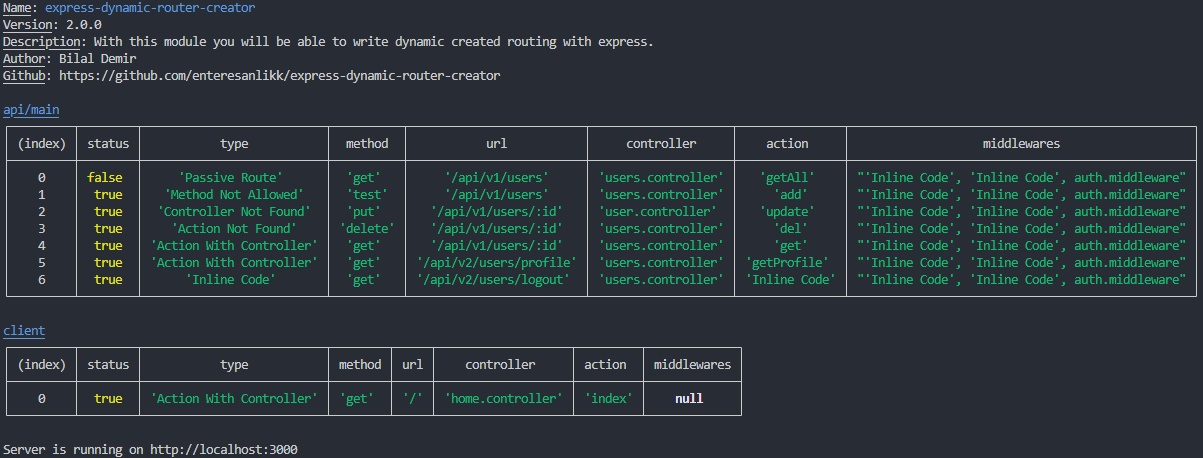
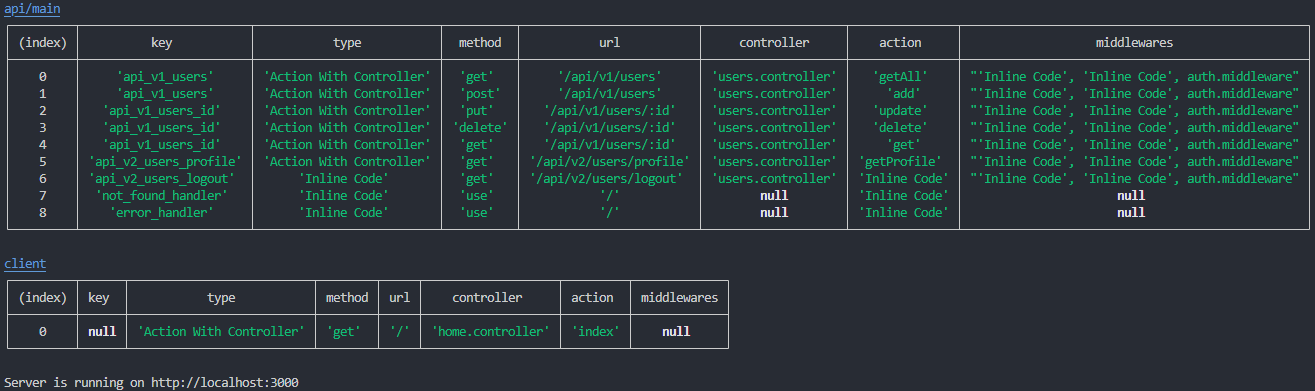
Added route key structure. The use method has been added.

diff --git a/lib/dynamicRouter.js b/lib/dynamicRouter.js
@@ -22,7 +22,6 @@ class DynamicRouter {
 
   run() {
     this.validate();
-    this.writeInfo();
     this.loadRoutes();
 
     return this;
@@ -34,15 +33,6 @@ class DynamicRouter {
     if (!this.routerFiles) throw new Error(texts.routerFiles_is_required);
     if (!this.folders.routers)
       throw new Error(texts.folders_routers_is_required);
-  }
-
-  writeInfo() {
-    this.log(`${colors.underline('Name')}: ${colors.blue(config.name)}`);
-    this.log(`${colors.underline('Version')}: ${config.version}`);
-    this.log(`${colors.underline('Description')}: ${config.description}`);
-    this.log(`${colors.underline('Author')}: ${config.author}`);
-    this.log(`${colors.underline('Github')}: ${config.repository.url}`);
-    this.log('');
   }
 
   loadRoutes() {
@@ -163,7 +153,13 @@ class DynamicRouter {
           route.status = true;
         }
 
-        route.url = `/${route.url || ''}`;
+        route.url = `${route.url || ''}`;
+
+        if (!route.key) {
+          route.key = route.url.replace(/[^a-zA-Z0-9]+/g, '_');
+        }
+
+        route.url = `/${route.url}`;
 
         this.tempRoutes.push(route);
         this.allRoutes.push(route);

diff --git a/examples/multiple-example/routers/api/main.js b/examples/multiple-example/routers/api/main.js
@@ -36,6 +36,25 @@ module.exports = [
         url: 'v2',
         routes: v2Routes,
       },
+      {
+        key: 'not_found_handler',
+        method: 'use',
+        action: (req, res, next) => {
+          next({
+            status: 404,
+            message: 'Not Found',
+          });
+        },
+      },
+      {
+        key: 'error_handler',
+        method: 'use',
+        action: (error, req, res, next) => {
+          res
+            .status(error.status || 500)
+            .send(error.message || 'Internal Server Error');
+        },
+      },
     ],
   },
 ];

diff --git a/lib/routeLog.js b/lib/routeLog.js
@@ -2,7 +2,7 @@ const { texts } = require('../constants');
 
 class RouteLog {
   constructor(route, type) {
-    this.status = route.status;
+    this.key = route.key || null;
     this.type = texts[type] || texts.unknown;
     this.method = route.method;
     this.url = route.url;

diff --git a/constants/allowedMethods.js b/constants/allowedMethods.js
@@ -12,4 +12,5 @@ module.exports = [
   'link',
   'unlink',
   'purge',
+  'use',
 ];

diff --git a/README.md b/README.md
@@ -88,41 +88,53 @@ new DynamicRouter({
     ],
     routes: [
       {
-        url: 'v1',
+        url: 'users',
+        middlewares: ['auth.middleware'],
+        controller: 'users.controller',
         routes: [
           {
-            url: 'users',
-            middlewares: ['auth.middleware'],
-            controller: 'users.controller',
-            status: false,
+            action: 'getAll',
+          },
+          {
+            method: 'post',
+            action: 'add',
+          },
+          {
+            url: ':id',
             routes: [
               {
-                action: 'getAll',
+                method: 'put',
+                action: 'update',
               },
               {
-                method: 'test',
-                action: 'add',
+                method: 'delete',
+                action: 'delete',
               },
               {
-                url: ':id',
-                routes: [
-                  {
-                    controller: 'user.controller',
-                    method: 'put',
-                    action: 'update',
-                  },
-                  {
-                    method: 'delete',
-                    action: 'del',
-                  },
-                  {
-                    action: 'get',
-                  },
-                ],
+                action: 'get',
               },
             ],
           },
         ],
+      },
+      {
+        key: 'not_found_handler',
+        method: 'use',
+        action: (req, res, next) => {
+          next({
+            status: 404,
+            message: 'Not Found',
+          });
+        },
+      },
+      {
+        key: 'error_handler',
+        method: 'use',
+        action: (error, req, res, next) => {
+          res
+            .status(error.status || 500)
+            .send(error.message || 'Internal Server Error');
+        },
       },
     ],
   },
@@ -137,4 +149,5 @@ new DynamicRouter({
 | **action**      | Represents the function in which route operations are performed. Must be string or function. **_Required_**                                                                                                                   |                |
 | **middlewares** | Used to define the middleware of the route. Must be array in string or function. **_It can be optional according to the upper route._**                                                                                       |                |
 | **status**      | To make the route u active or passive. By default, the route is active. Must be boolean. **_Optional_**                                                                                                                       | true           |
+| **key**         | Used to distinguish routes. If no value is entered, it will be created automatically according to the url. **_Optional_**                                                                                                     |                |
 | **routes**      | It is used to group routes. The route properties of this parameter are copied to the subroutines. Must be array and it should consist of _Route File Params_. **_Optional_**                                                  |                |
